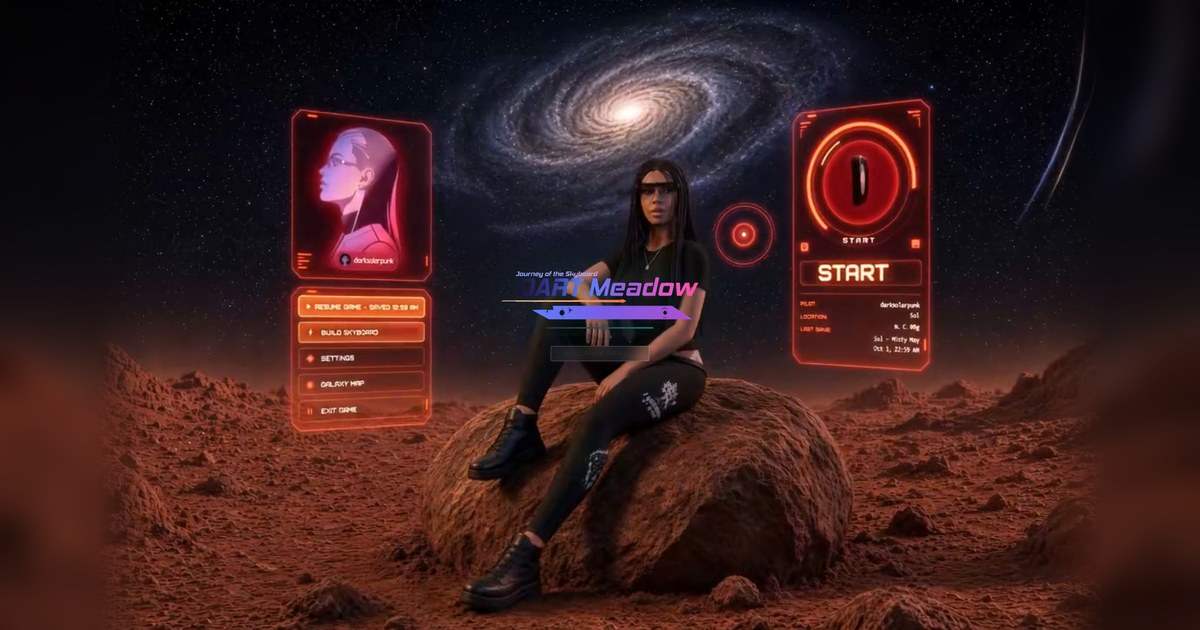
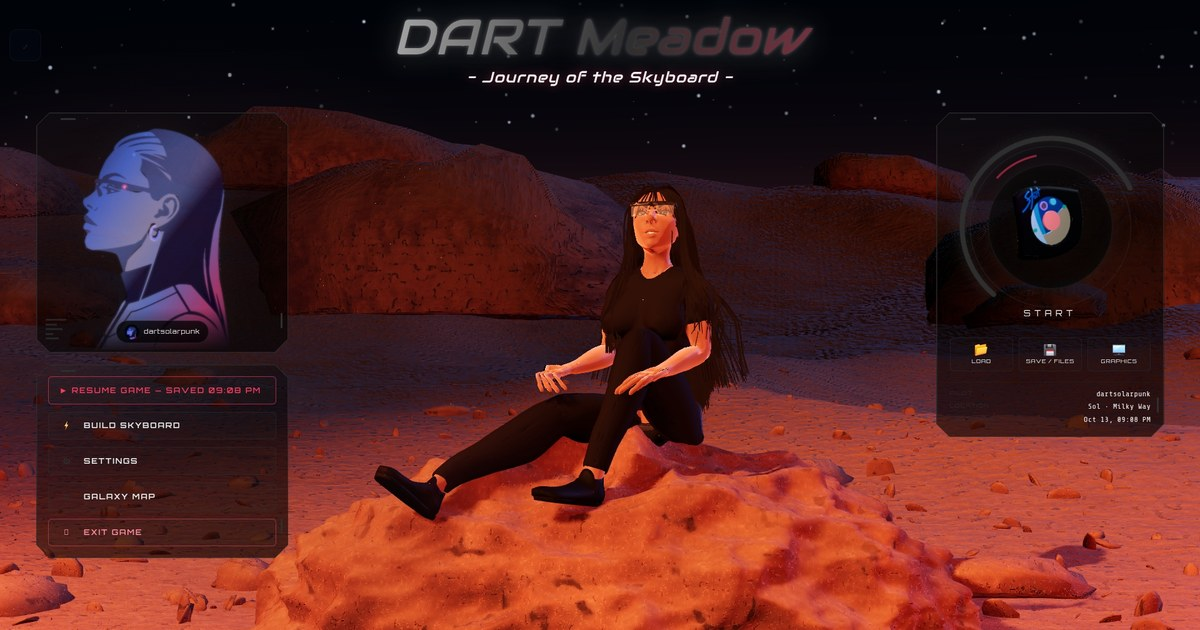
Social share image: new menu-scene screenshot (1200x630), cache-bust v=20261014
Claude-Session: https://claude.ai/code/session_011S5NGfxHypDSX9BF8ofHD7

diff --git a/index.html b/index.html
@@ -25,8 +25,8 @@
 <meta property="og:url" content="https://dartmeadow.space/">
 <meta property="og:title" content="DART Meadow — Journey of the Skyboard">
 <meta property="og:description" content="Journey of the Skyboard. Build your skyboard, chart the galaxy, ride at c³.">
-<meta property="og:image" content="https://dartmeadow.space/assets/social-share.jpg?v=20261011">
-<meta property="og:image:secure_url" content="https://dartmeadow.space/assets/social-share.jpg?v=20261011">
+<meta property="og:image" content="https://dartmeadow.space/assets/social-share.jpg?v=20261014">
+<meta property="og:image:secure_url" content="https://dartmeadow.space/assets/social-share.jpg?v=20261014">
 <meta property="og:image:width" content="1200">
 <meta property="og:image:height" content="630">
 <meta property="og:image:type" content="image/jpeg">
@@ -35,9 +35,9 @@
 <meta name="twitter:card" content="summary_large_image">
 <meta name="twitter:title" content="DART Meadow — Journey of the Skyboard">
 <meta name="twitter:description" content="Zero-G interstellar flight. Build your skyboard, chart the galaxy, ride at c³.">
-<meta name="twitter:image" content="https://dartmeadow.space/assets/social-share.jpg?v=20261011">
-<link rel="image_src" href="https://dartmeadow.space/assets/social-share.jpg?v=20261011">
-<meta itemprop="image" content="https://dartmeadow.space/assets/social-share.jpg?v=20261011">
+<meta name="twitter:image" content="https://dartmeadow.space/assets/social-share.jpg?v=20261014">
+<link rel="image_src" href="https://dartmeadow.space/assets/social-share.jpg?v=20261014">
+<meta itemprop="image" content="https://dartmeadow.space/assets/social-share.jpg?v=20261014">
 <meta name="twitter:image:alt" content="DART Meadow — Ariel on a rock in a red Mars desert beneath a spiral galaxy, the red game menu glowing beside her.">
 
 <title>DART Meadow - Journey of the Skyboard</title>
